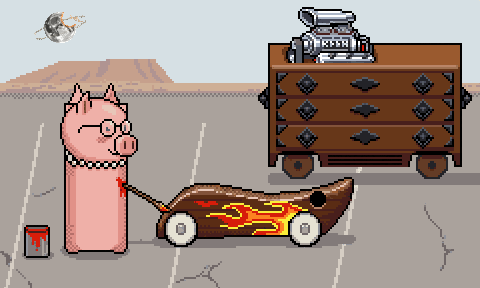
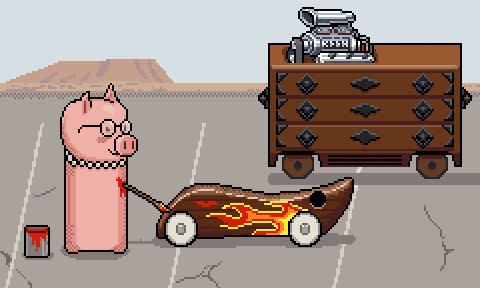
公開版を更新(呪いの野犬のカスタムの一枚絵: 月を消し、みとんの耳と頭を直す、版 549)
Claude-Session: https://claude.ai/code/session_01ERearKabsCfAUbM9AYRihy

Changed region(s): [[0.0625, 0.0312, 0.1875, 0.1562], [0.125, 0.2812, 0.1875, 0.4375], [0.2188, 0.3438, 0.2812, 0.4062]]

diff --git a/field/index.html b/field/index.html
@@ -14,9 +14,9 @@
   <link rel="apple-touch-icon" href="./apple-touch-icon.png">
   <meta name="apple-mobile-web-app-title" content="ぼぎだぢ">
   <meta http-equiv="Cache-Control" content="no-cache">
-  <script src="./fresh.js?v=547"></script>
-  <script src="./i18n.js?v=547"></script>
-  <link rel="stylesheet" href="./style.css?v=547">
+  <script src="./fresh.js?v=549"></script>
+  <script src="./i18n.js?v=549"></script>
+  <link rel="stylesheet" href="./style.css?v=549">
 </head>
 <body>
 
@@ -54,52 +54,52 @@
   <button type="button" id="actionBtnT" class="action-btn action-btn-t" aria-label="時計">TIME</button>
 
 
-  <script src="./audio.js?v=547"></script>
-  <script src="./rpg.js?v=547"></script>
-  <script src="./worlds/common.js?v=547"></script>
-  <script src="./worlds/lake.js?v=547"></script>
-  <script src="./worlds/void.js?v=547"></script>
-  <script src="./worlds/haihei.js?v=547"></script>
-  <script src="./worlds/kasumi.js?v=547"></script>
-  <script src="./worlds/banana.js?v=547"></script>
-  <script src="./worlds/suzuki.js?v=547"></script>
-  <script src="./worlds/suzuki_print.js?v=547"></script>
-  <script src="./worlds/suzuki_tram.js?v=547"></script>
-  <script src="./worlds/takarabune.js?v=547"></script>
-  <script src="./worlds/takarabune_port.js?v=547"></script>
-  <script src="./worlds/takarabune_plant.js?v=547"></script>
-  <script src="./worlds/takarabune_deck.js?v=547"></script>
-  <script src="./worlds/noroi.js?v=547"></script>
-  <script src="./worlds/noroi_diner.js?v=547"></script>
-  <script src="./worlds/noroi_strip.js?v=547"></script>
-  <script src="./worlds/noroi_race.js?v=547"></script>
-  <script src="./worlds/pinball.js?v=547"></script>
-  <script src="./worlds/padre.js?v=547"></script>
-  <script src="./worlds/kinsei.js?v=547"></script>
-  <script src="./worlds/kinsei_sando.js?v=547"></script>
-  <script src="./worlds/kinsei_naka.js?v=547"></script>
-  <script src="./worlds/kinsei_sancho.js?v=547"></script>
-  <script src="./worlds/bomber.js?v=547"></script>
-  <script src="./worlds/bomber_farm.js?v=547"></script>
-  <script src="./worlds/keiji.js?v=547"></script>
-  <script src="./worlds/keiji_draw.js?v=547"></script>
-  <script src="./worlds/keiji_fx.js?v=547"></script>
-  <script src="./worlds/keiji_studio.js?v=547"></script>
-  <script src="./worlds/nagato.js?v=547"></script>
-  <script src="./worlds/nagato_seiha.js?v=547"></script>
-  <script src="./worlds/nagato_kohan.js?v=547"></script>
-  <script src="./worlds/nagato_aki.js?v=547"></script>
-  <script src="./worlds/nagato_ryokan.js?v=547"></script>
-  <script src="./worlds/finale.js?v=547"></script>
-  <script src="./worlds/index.js?v=547"></script>
-  <script src="./app/layout.js?v=547"></script>
-  <script src="./app/dialog.js?v=547"></script>
-  <script src="./app/game.js?v=547"></script>
-  <script src="./app/status.js?v=547"></script>
-  <script src="./app/title.js?v=547"></script>
-  <script src="./app/watch.js?v=547"></script>
-  <script src="./app/maroudo.js?v=547"></script>
-  <script src="./app/input.js?v=547"></script>
-  <script src="./app/loop.js?v=547"></script>
+  <script src="./audio.js?v=549"></script>
+  <script src="./rpg.js?v=549"></script>
+  <script src="./worlds/common.js?v=549"></script>
+  <script src="./worlds/lake.js?v=549"></script>
+  <script src="./worlds/void.js?v=549"></script>
+  <script src="./worlds/haihei.js?v=549"></script>
+  <script src="./worlds/kasumi.js?v=549"></script>
+  <script src="./worlds/banana.js?v=549"></script>
+  <script src="./worlds/suzuki.js?v=549"></script>
+  <script src="./worlds/suzuki_print.js?v=549"></script>
+  <script src="./worlds/suzuki_tram.js?v=549"></script>
+  <script src="./worlds/takarabune.js?v=549"></script>
+  <script src="./worlds/takarabune_port.js?v=549"></script>
+  <script src="./worlds/takarabune_plant.js?v=549"></script>
+  <script src="./worlds/takarabune_deck.js?v=549"></script>
+  <script src="./worlds/noroi.js?v=549"></script>
+  <script src="./worlds/noroi_diner.js?v=549"></script>
+  <script src="./worlds/noroi_strip.js?v=549"></script>
+  <script src="./worlds/noroi_race.js?v=549"></script>
+  <script src="./worlds/pinball.js?v=549"></script>
+  <script src="./worlds/padre.js?v=549"></script>
+  <script src="./worlds/kinsei.js?v=549"></script>
+  <script src="./worlds/kinsei_sando.js?v=549"></script>
+  <script src="./worlds/kinsei_naka.js?v=549"></script>
+  <script src="./worlds/kinsei_sancho.js?v=549"></script>
+  <script src="./worlds/bomber.js?v=549"></script>
+  <script src="./worlds/bomber_farm.js?v=549"></script>
+  <script src="./worlds/keiji.js?v=549"></script>
+  <script src="./worlds/keiji_draw.js?v=549"></script>
+  <script src="./worlds/keiji_fx.js?v=549"></script>
+  <script src="./worlds/keiji_studio.js?v=549"></script>
+  <script src="./worlds/nagato.js?v=549"></script>
+  <script src="./worlds/nagato_seiha.js?v=549"></script>
+  <script src="./worlds/nagato_kohan.js?v=549"></script>
+  <script src="./worlds/nagato_aki.js?v=549"></script>
+  <script src="./worlds/nagato_ryokan.js?v=549"></script>
+  <script src="./worlds/finale.js?v=549"></script>
+  <script src="./worlds/index.js?v=549"></script>
+  <script src="./app/layout.js?v=549"></script>
+  <script src="./app/dialog.js?v=549"></script>
+  <script src="./app/game.js?v=549"></script>
+  <script src="./app/status.js?v=549"></script>
+  <script src="./app/title.js?v=549"></script>
+  <script src="./app/watch.js?v=549"></script>
+  <script src="./app/maroudo.js?v=549"></script>
+  <script src="./app/input.js?v=549"></script>
+  <script src="./app/loop.js?v=549"></script>
 </body>
 </html>

diff --git a/field/fresh.js b/field/fresh.js
@@ -1,7 +1,7 @@
 // 古い版が残らないように(ホーム画面に置いたとき、ページそのものが手元に残る)。index.html の中から、このファイルに出した(D301。ページの中に直接書いた script を禁止するため)
 // version.json(毎回取りにいく)の版がこのページとちがえば、URL を変えて読みなおす。版を上げるときは、下の数と version.json と ?v= をそろえる
 (function () {
-  var V = "547";
+  var V = "549";
   var key = "bogidachi.reloadedFor";
   function check(onlyIfSafe) {
     fetch("./version.json?t=" + Date.now(), { cache: "no-store" })
